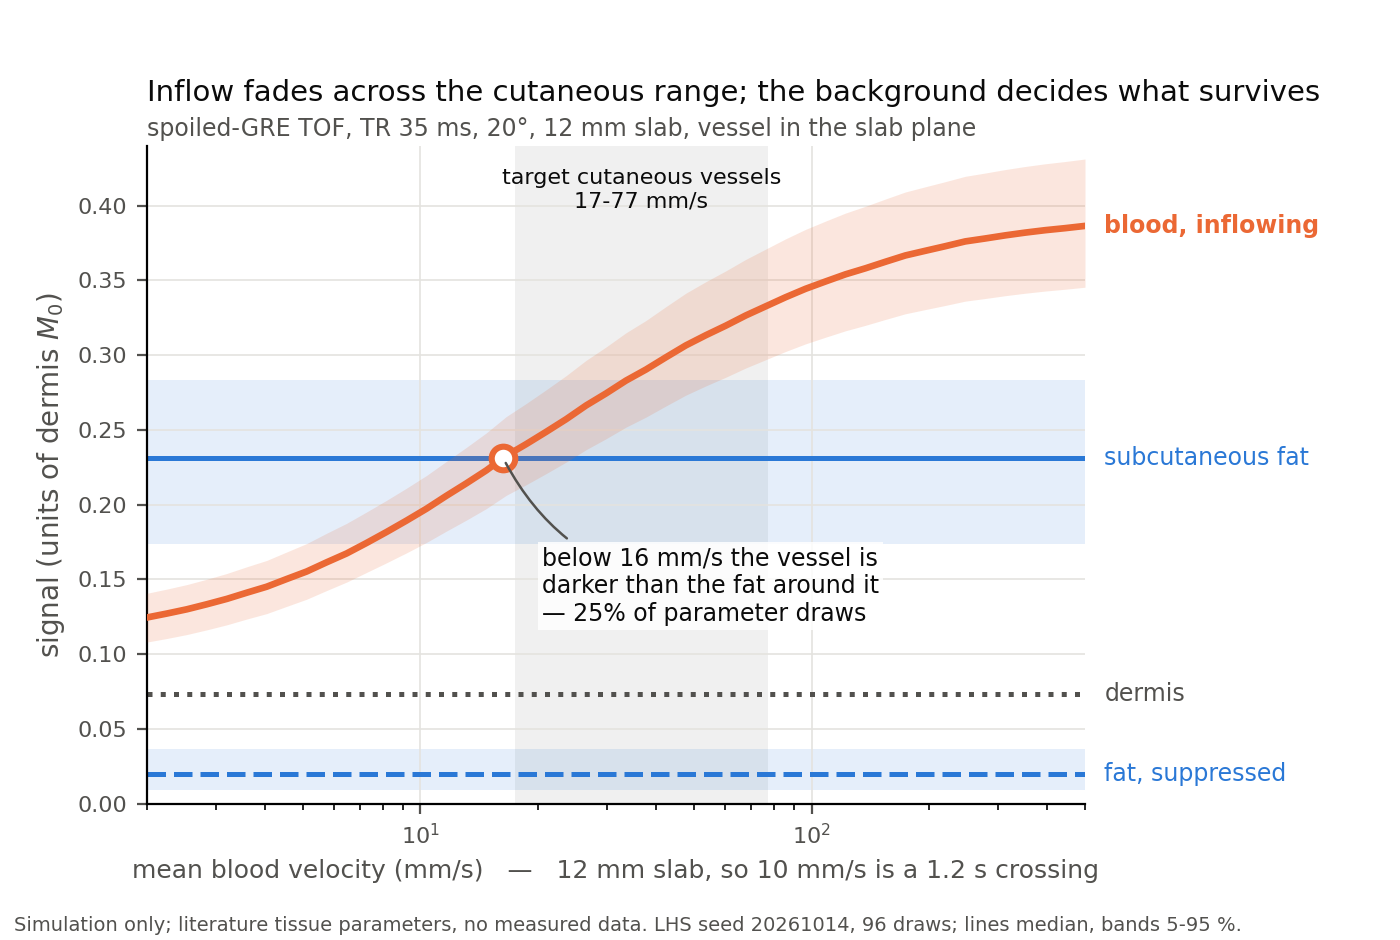
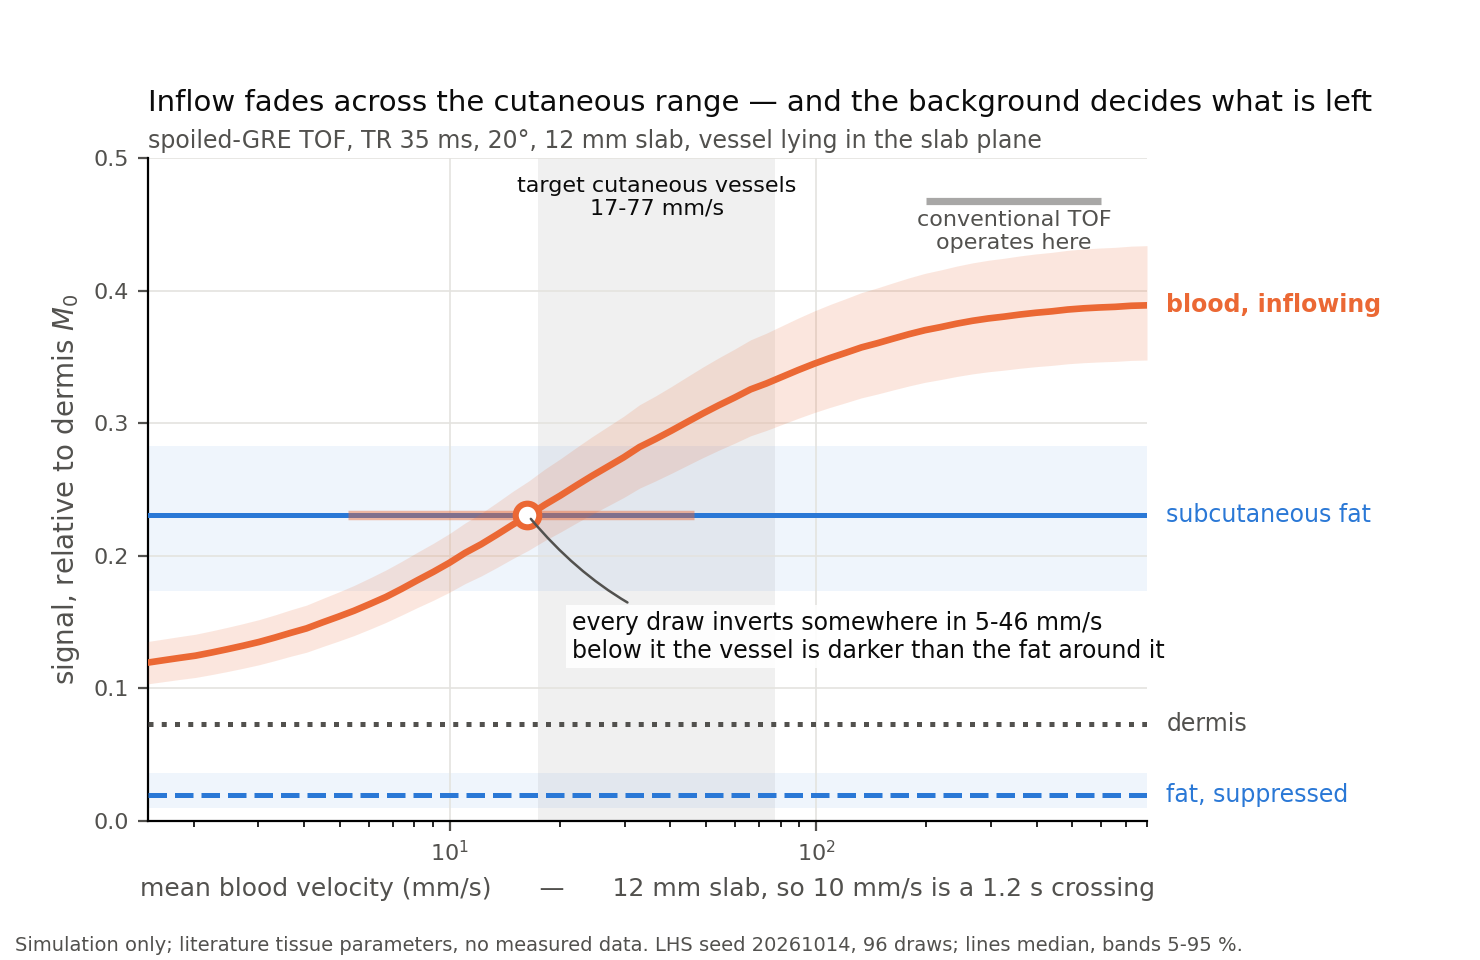
Rework Figure 1b around the inversion, not the signal level
Three changes, each fixing something that made the first version weaker
than the result behind it.

The uncertainty that matters is WHERE the vessel inverts, not how bright
the fat is. The heavy fat band is now faint and the inversion carries its
own 5-95 % span: every one of the 96 draws inverts against unsuppressed
fat somewhere between 5 and 46 mm/s (transit 0.26-2.27 s). The inversion
is certain; only its location is uncertain, and it lands inside the
target range.

Crossing velocities are now solved by bisection in log velocity instead
of interpolated off the plotting grid, so the quoted bounds stop moving
when the grid is refined (this is what shifted 7-44 to 5-46).

Adds the conventional-TOF operating range for scale, which is what makes
"cutaneous TOF is not intracranial TOF at a smaller scale" visible rather
than asserted.

diff --git a/figures/fig1b_regime.py b/figures/fig1b_regime.py
@@ -3,18 +3,20 @@
 One panel, one message. As blood slows into the cutaneous range, inflow
 enhancement is progressively spent and the slab-mean blood signal falls toward
 the static steady state. Whether the vessel is still visible there is decided
-entirely by the background it sits against:
+by the background it sits against, which in skin is set by depth:
 
-  - against DERMIS, blood stays above the background at every physiological
-    velocity, so a dermal vessel is in principle always positive-contrast;
-  - against UNSUPPRESSED SUBCUTANEOUS FAT, blood falls below the background
-    inside the physiological range, and the vessel inverts and disappears;
-  - with the fat suppressed, the background collapses to near zero and blood
-    stays far above it across the whole range.
+  - against DERMIS (shallow), blood stays above the background at every
+    physiological velocity;
+  - against UNSUPPRESSED SUBCUTANEOUS FAT (1-10 mm, where the target vessels
+    are), blood falls BELOW the background and the vessel inverts. Every draw
+    in the literature parameter ranges inverts somewhere; only the velocity at
+    which it happens is uncertain, and that velocity lands inside the target
+    range;
+  - with the fat suppressed, the background collapses to near zero and the
+    inversion disappears entirely.
 
-So the limiting problem at 1-10 mm depth is not the slow flow by itself: it is
-slow flow measured against bright fat. That is a statement the simulation makes
-before any image is acquired.
+Conventional TOF operates two decades to the right of this, on the plateau,
+which is why its parameter choices do not transfer.
 
 Every number is read from tissues.py and protocols.py. No measured data.
 
@@ -23,7 +25,7 @@ Run: python figures/fig1b_regime.py
 from __future__ import annotations
 
 import numpy as np
-from common import GRID, INK, INK_2, N_SHELLS, SERIES, plt, save  # noqa: F401
+from common import GRID, INK, INK_2, N_SHELLS, SERIES, plt, save
 
 from acquisition import Slab
 from protocols import BANDWIDTH_PER_PX_HZ, PARTITION_MM, PRISMA_XR, RF_DURATION_MS, fl3d1r_timing
@@ -40,7 +42,8 @@ SEED, N_DRAWS = 20261014, 96
 TR_MS, FLIP_DEG = 35.0, 20.0
 SLAB_MM = 12.0  # stated: the transit time that governs inflow is SLAB_MM / velocity
 INPLANE_MM = 0.3
-VELOCITIES = np.geomspace(2.0, 500.0, 48)
+VELOCITIES = np.geomspace(1.5, 800.0, 64)
+INTRACRANIAL_MM_S = (200.0, 600.0)  # typical TOF operating range, for scale only
 KEYS = ("arterial_blood", "hypodermis", "dermis")
 
 
@@ -60,20 +63,6 @@ def draw() -> tuple[list[dict[str, TissueSample]], np.ndarray]:
     return samples, np.asarray(others["target_vessel_velocity"]) * np.asarray(others["thermoregulatory_factor"])
 
 
-def joint_fraction_darker(samples: list[dict[str, TissueSample]], velocities: np.ndarray,
-                          seq: TofSequence, key: str) -> float:
-    """Return the fraction of joint draws whose own vessel, at its own velocity, is darker than that background."""
-    slab = Slab(thickness_mm=SLAB_MM, orientation_deg=90.0)
-    vessel = Vessel(depth_mm=5.0, polar_deg=90.0, azimuth_deg=0.0,
-                    diameter_mm=HAEMODYNAMICS["target_diameter"].nominal)
-    darker = 0
-    for s, v in zip(samples, velocities):
-        flow = FlowGeometry(vessel, slab, float(v), N_SHELLS, SLAB_MM * 1.001)
-        b = float(np.mean(seq.blood_signal(s["arterial_blood"], flow, np.linspace(0.0, flow.path_mm(), 32))))
-        darker += b < float(seq.static_signal(s[key]))
-    return darker / len(samples)
-
-
 def sequences() -> tuple[TofSequence, TofSequence]:
     """Return the TOF readout without and with a per-TR fat-saturation pulse."""
     timing = fl3d1r_timing(INPLANE_MM, PARTITION_MM, BANDWIDTH_PER_PX_HZ, RF_DURATION_MS, TR_MS, PRISMA_XR)
@@ -81,17 +70,23 @@ def sequences() -> tuple[TofSequence, TofSequence]:
             TofSequence(timing=timing, flip_deg=FLIP_DEG, modules=(SaturationModule("fatsat_s", 8.0),)))
 
 
-def blood_curve(seq: TofSequence, samples: list[dict[str, TissueSample]]) -> np.ndarray:
-    """Return slab-mean blood signal, shape (velocities, draws)."""
+def _flow(velocity: float) -> FlowGeometry:
+    """Return the laminar flow geometry of a target vessel lying in the slab plane."""
     slab = Slab(thickness_mm=SLAB_MM, orientation_deg=90.0)
     vessel = Vessel(depth_mm=5.0, polar_deg=90.0, azimuth_deg=0.0,
                     diameter_mm=HAEMODYNAMICS["target_diameter"].nominal)
-    out = np.empty((len(VELOCITIES), len(samples)))
-    for i, v in enumerate(VELOCITIES):
-        flow = FlowGeometry(vessel, slab, v, N_SHELLS, SLAB_MM * 1.001)
-        path = np.linspace(0.0, flow.path_mm(), 32)
-        out[i] = [float(np.mean(seq.blood_signal(s["arterial_blood"], flow, path))) for s in samples]
-    return out
+    return FlowGeometry(vessel, slab, velocity, N_SHELLS, SLAB_MM * 1.001)
+
+
+def blood_at(seq: TofSequence, sample: TissueSample, velocity: float) -> float:
+    """Return slab-mean blood signal for one tissue sample at one velocity."""
+    flow = _flow(velocity)
+    return float(np.mean(seq.blood_signal(sample, flow, np.linspace(0.0, flow.path_mm(), 32))))
+
+
+def blood_curve(seq: TofSequence, samples: list[dict[str, TissueSample]]) -> np.ndarray:
+    """Return slab-mean blood signal, shape (velocities, draws)."""
+    return np.array([[blood_at(seq, s["arterial_blood"], v) for s in samples] for v in VELOCITIES])
 
 
 def flat(seq: TofSequence, samples: list[dict[str, TissueSample]], key: str) -> np.ndarray:
@@ -99,24 +94,34 @@ def flat(seq: TofSequence, samples: list[dict[str, TissueSample]], key: str) -> 
     return np.array([float(seq.static_signal(s[key])) for s in samples])
 
 
-def hline(ax, values: np.ndarray, colour: str, style: str, label: str, band: bool = True) -> float:
+def crossing_velocities(seq: TofSequence, samples: list[dict[str, TissueSample]], key: str) -> np.ndarray:
+    """Return, per draw, the velocity at which that draw's blood falls below that draw's own background.
+
+    Solved by bisection in log velocity rather than read off the plotting grid,
+    so the quoted bounds do not move when the grid is refined.
+    """
+    from scipy.optimize import brentq
+
+    out = []
+    for s in samples:
+        background = float(seq.static_signal(s[key]))
+
+        def excess(log_v: float, sample=s["arterial_blood"], g=background) -> float:
+            return blood_at(seq, sample, float(np.exp(log_v))) - g
+
+        lo, hi = np.log(VELOCITIES[0]), np.log(VELOCITIES[-1])
+        if excess(lo) * excess(hi) < 0:
+            out.append(float(np.exp(brentq(excess, lo, hi, xtol=1e-4))))
+    return np.array(out)
+
+
+def hline(ax, values: np.ndarray, colour: str, style: str, alpha: float = 0.07) -> float:
     """Draw a velocity-independent background as a median line with its 5-95 % band; return the median."""
     lo, mid, hi = np.percentile(values, [5, 50, 95])
-    if band:
-        ax.axhspan(lo, hi, color=colour, alpha=0.12, lw=0)
-    ax.axhline(mid, color=colour, lw=1.8, ls=style, label=label)
+    if alpha:
+        ax.axhspan(lo, hi, color=colour, alpha=alpha, lw=0, zorder=1)
+    ax.axhline(mid, color=colour, lw=1.8, ls=style, zorder=3)
     return float(mid)
-
-
-def crossing(curve: np.ndarray, level: float) -> float | None:
-    """Return the velocity at which the median blood curve crosses a flat background, by log interpolation."""
-    med = np.median(curve, axis=-1) - level
-    s = np.where(np.diff(np.sign(med)))[0]
-    if not len(s):
-        return None
-    i = s[0]
-    w = med[i] / (med[i] - med[i + 1])
-    return float(np.exp(np.log(VELOCITIES[i]) + w * (np.log(VELOCITIES[i + 1]) - np.log(VELOCITIES[i]))))
 
 
 def main() -> None:
@@ -124,34 +129,41 @@ def main() -> None:
     samples, draw_velocities = draw()
     plain, fatsat = sequences()
     blood = blood_curve(plain, samples)  # blood is on-resonance: the fat pulse leaves it untouched
-    v25, v50, v75 = np.percentile(cutaneous_velocities(), [25, 50, 75])
+    v25, v75 = np.percentile(cutaneous_velocities(), [25, 75])
 
-    fig, ax = plt.subplots(figsize=(7.0, 4.7))
-    fig.subplots_adjust(left=0.105, right=0.775, top=0.845, bottom=0.145)
-
+    fig, ax = plt.subplots(figsize=(7.4, 4.8))
+    fig.subplots_adjust(left=0.10, right=0.775, top=0.835, bottom=0.145)
     ax.axvspan(v25, v75, color=INK, alpha=0.06, lw=0, zorder=0)
-    ax.annotate(f"target cutaneous vessels\n{v25:.0f}-{v75:.0f} mm/s", (np.sqrt(v25 * v75), 0.425),
-                ha="center", va="top", fontsize=8, color=INK)
 
-    fat_u = hline(ax, flat(plain, samples, "hypodermis"), FAT_C, "-", "subcutaneous fat")
-    fat_s = hline(ax, flat(fatsat, samples, "hypodermis"), FAT_C, "--", "fat, suppressed")
-    derm = hline(ax, flat(plain, samples, "dermis"), INK_2, ":", "dermis", band=False)
+    fat_u = hline(ax, flat(plain, samples, "hypodermis"), FAT_C, "-")
+    fat_s = hline(ax, flat(fatsat, samples, "hypodermis"), FAT_C, "--")
+    derm = hline(ax, flat(plain, samples, "dermis"), INK_2, ":", alpha=0.0)
 
     lo, mid, hi = np.percentile(blood, [5, 50, 95], axis=-1)
     ax.fill_between(VELOCITIES, lo, hi, color=BLOOD_C, alpha=0.16, lw=0, zorder=4)
     ax.plot(VELOCITIES, mid, color=BLOOD_C, lw=2.4, zorder=5)
 
-    v_cross = crossing(blood, fat_u)
-    frac = joint_fraction_darker(samples, draw_velocities, plain, "hypodermis")
-    if v_cross is not None:
-        ax.plot([v_cross], [fat_u], "o", ms=8.5, mfc="white", mec=BLOOD_C, mew=2.2, zorder=6)
-        ax.annotate(f"below {v_cross:.0f} mm/s the vessel is\ndarker than the fat around it\n"
-                    f"— {frac:.0%} of parameter draws",
-                    (v_cross, fat_u), xytext=(14, -46), textcoords="offset points",
-                    ha="left", va="center", fontsize=8.5, color=INK, zorder=7,
-                    bbox=dict(fc="white", ec="none", alpha=0.85, pad=1.5),
-                    arrowprops=dict(arrowstyle="-", color=INK_2, lw=0.9,
-                                    connectionstyle="arc3,rad=-0.3"))
+    # Where each draw's vessel goes dark against its own unsuppressed fat.
+    xs = crossing_velocities(plain, samples, "hypodermis")
+    x5, x50, x95 = np.percentile(xs, [5, 50, 95])
+    ax.plot([x5, x95], [fat_u, fat_u], color=BLOOD_C, lw=3.4, solid_capstyle="butt", alpha=0.45, zorder=6)
+    ax.plot([x50], [fat_u], "o", ms=8.5, mfc="white", mec=BLOOD_C, mew=2.2, zorder=7)
+
+    frac = float(np.mean([blood_at(plain, s["arterial_blood"], float(v)) < float(plain.static_signal(s["hypodermis"]))
+                          for s, v in zip(samples, draw_velocities)]))
+    ax.annotate(f"every draw inverts somewhere in {x5:.0f}-{x95:.0f} mm/s\n"
+                f"below it the vessel is darker than the fat around it",
+                (x50, fat_u), xytext=(16, -44), textcoords="offset points",
+                ha="left", va="center", fontsize=8.5, color=INK, zorder=8,
+                bbox=dict(fc="white", ec="none", alpha=0.88, pad=2.0),
+                arrowprops=dict(arrowstyle="-", color=INK_2, lw=0.9, connectionstyle="arc3,rad=-0.3"))
+
+    ax.annotate(f"target cutaneous vessels\n{v25:.0f}-{v75:.0f} mm/s", (np.sqrt(v25 * v75), 0.487),
+                ha="center", va="top", fontsize=8, color=INK)
+    ic = INTRACRANIAL_MM_S
+    ax.plot(ic, [0.468, 0.468], color=INK_2, lw=2.6, solid_capstyle="butt", alpha=0.5)
+    ax.annotate("conventional TOF\noperates here", (np.sqrt(ic[0] * ic[1]), 0.461), ha="center", va="top",
+                fontsize=8, color=INK_2)
 
     for y, text, colour, weight in ((mid[-1], "blood, inflowing", BLOOD_C, "bold"),
                                     (fat_u, "subcutaneous fat", FAT_C, "normal"),
@@ -161,30 +173,29 @@ def main() -> None:
                     textcoords="offset points", va="center", fontsize=8.5, color=colour,
                     weight=weight, annotation_clip=False)
 
-    ax.set(xscale="log", xlim=(VELOCITIES[0], VELOCITIES[-1]), ylim=(0, 0.44))
-    ax.set_xlabel(f"mean blood velocity (mm/s)   —   {SLAB_MM:g} mm slab, so 10 mm/s is a {SLAB_MM / 10:.1f} s crossing",
-                  color=INK_2, fontsize=9)
-    ax.set_ylabel("signal (units of dermis $M_0$)", color=INK_2)
-    ax.set_title("Inflow fades across the cutaneous range; the background decides what survives",
-                 fontsize=10.5, color=INK, loc="left", pad=16)
-    ax.text(0, 1.015, f"spoiled-GRE TOF, TR {TR_MS:g} ms, {FLIP_DEG:g}°, {SLAB_MM:g} mm slab, vessel in the slab plane",
-            transform=ax.transAxes, fontsize=8.5, color=INK_2)
+    ax.set(xscale="log", xlim=(VELOCITIES[0], VELOCITIES[-1]), ylim=(0, 0.50))
+    ax.set_xlabel(f"mean blood velocity (mm/s)      —      {SLAB_MM:g} mm slab, so 10 mm/s is a "
+                  f"{SLAB_MM / 10:.1f} s crossing", color=INK_2, fontsize=9)
+    ax.set_ylabel("signal, relative to dermis $M_0$", color=INK_2)
+    ax.set_title("Inflow fades across the cutaneous range — and the background decides what is left",
+                 fontsize=10.5, color=INK, loc="left", pad=17)
+    ax.text(0, 1.016, f"spoiled-GRE TOF, TR {TR_MS:g} ms, {FLIP_DEG:g}°, {SLAB_MM:g} mm slab, "
+                      f"vessel lying in the slab plane", transform=ax.transAxes, fontsize=8.5, color=INK_2)
     ax.grid(color=GRID, lw=0.6, zorder=0)
     ax.tick_params(colors=INK_2, labelsize=8)
     for side in ("top", "right"):
         ax.spines[side].set_visible(False)
 
     print(f"Backgrounds (median, dermis M0): fat {fat_u:.3f}, fat suppressed {fat_s:.3f}, dermis {derm:.3f}")
-    print(f"Target cutaneous velocity: {v50:.0f} mm/s [IQR {v25:.0f}-{v75:.0f}]")
-    for v in (3.0, 10.0, 30.0, 100.0, 400.0):
-        i = int(np.argmin(np.abs(VELOCITIES - v)))
-        b = np.median(blood[i])
-        print(f"  {VELOCITIES[i]:6.1f} mm/s: blood {b:.3f} = {b / fat_u:4.2f}x fat, "
-              f"{b / fat_s:5.1f}x suppressed fat, {b / derm:4.2f}x dermis")
-    if v_cross is not None:
-        print(f"Blood crosses unsuppressed fat at {v_cross:.1f} mm/s (transit {SLAB_MM / v_cross:.2f} s)")
+    print(f"Target cutaneous velocity IQR {v25:.0f}-{v75:.0f} mm/s")
+    print(f"Inversion against unsuppressed fat: {len(xs)}/{N_DRAWS} draws invert; "
+          f"velocity {x50:.0f} mm/s [{x5:.0f}-{x95:.0f}], transit {SLAB_MM / x50:.2f} s "
+          f"[{SLAB_MM / x95:.2f}-{SLAB_MM / x5:.2f}]")
     print(f"Joint draws (own velocity AND own tissue parameters) darker than unsuppressed fat: {frac:.0%}")
-    print(f"Blood never falls below suppressed fat: min ratio {np.min(mid) / fat_s:.1f}x")
+    print(f"Against suppressed fat the median curve never inverts: min ratio {np.min(mid) / fat_s:.1f}x")
+    for v in (5.0, 20.0, 100.0, 400.0):
+        i = int(np.argmin(np.abs(VELOCITIES - v)))
+        print(f"  {VELOCITIES[i]:6.1f} mm/s: blood {mid[i]:.3f} = {mid[i] / fat_u:4.2f}x fat, {mid[i] / derm:4.2f}x dermis")
 
     save(fig, "fig1b_regime", n=N_DRAWS, seed=SEED,
          note=f"Simulation only; literature tissue parameters, no measured data. "
